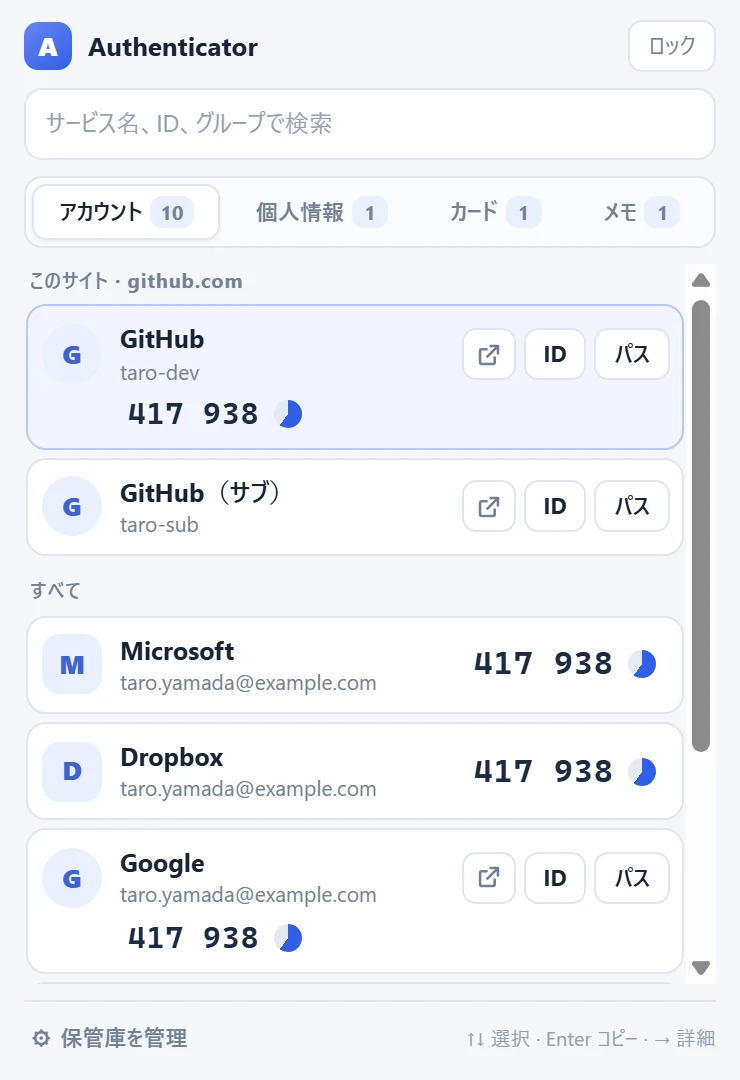
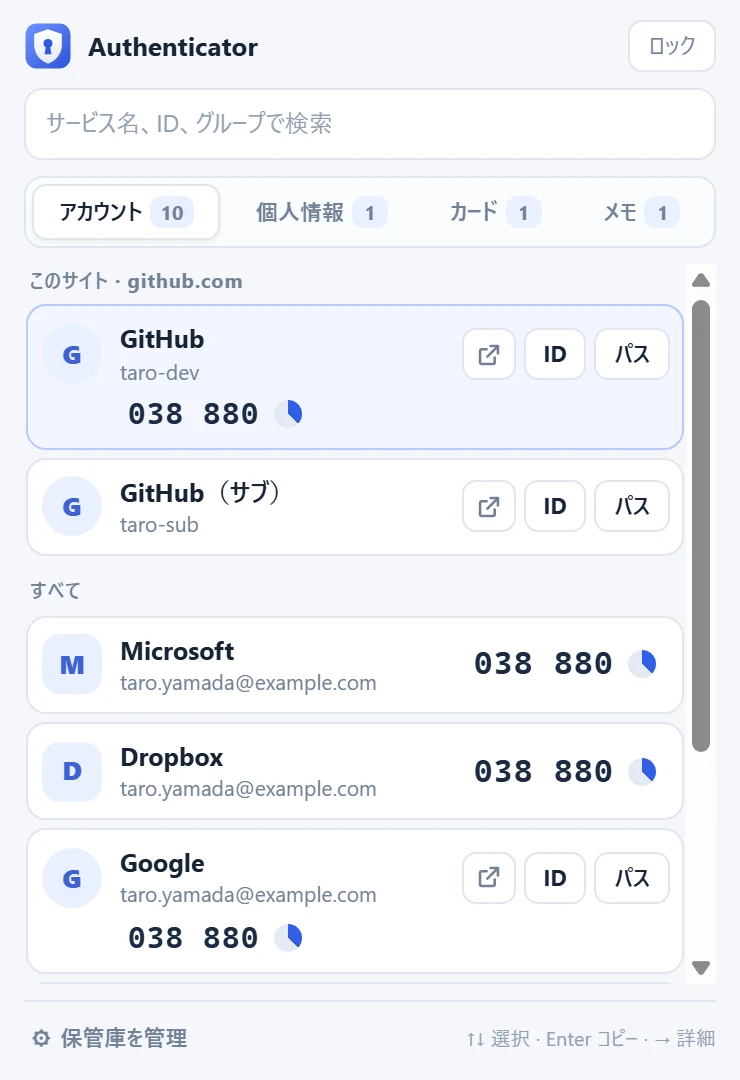
Update Authenticator Autofill guide for v0.1.1
Retake the popup screenshots with the new extension icon (bump their
?v= so the cached images are replaced) and show version 0.1.1.

diff --git a/authenticator-autofill/index.html b/authenticator-autofill/index.html
@@ -31,7 +31,7 @@
   <script async src="https://pagead2.googlesyndication.com/pagead/js/adsbygoogle.js?client=ca-pub-4863572964771965"
     crossorigin="anonymous"></script>
   <script type="application/ld+json">
-  {"@context": "https://schema.org", "@type": "SoftwareApplication", "name": "Authenticator Autofill", "description": "Google 認証システムの2段階認証コード・パスワード・住所・カード・メモを、パソコンの中だけで暗号化して管理する無料の Chrome 拡張機能。今開いているサイトのコードやID・パスワードをすぐコピー。Chrome や Bitwarden から取り込めて、通信はしません。", "url": "https://donnma.com/tool/authenticator-autofill/", "applicationCategory": "SecurityApplication", "operatingSystem": "Chrome", "downloadUrl": "https://github.com/donnma777/authenticator-autofill/releases/latest", "offers": {"@type": "Offer", "price": "0", "priceCurrency": "JPY"}, "author": {"@type": "Person", "name": "どんま", "url": "https://donnma.com/"}, "softwareVersion": "0.1.0", "screenshot": ["https://donnma.com/tool/image/guide-authenticator-list.webp", "https://donnma.com/tool/image/guide-authenticator-detail.webp"]}
+  {"@context": "https://schema.org", "@type": "SoftwareApplication", "name": "Authenticator Autofill", "description": "Google 認証システムの2段階認証コード・パスワード・住所・カード・メモを、パソコンの中だけで暗号化して管理する無料の Chrome 拡張機能。今開いているサイトのコードやID・パスワードをすぐコピー。Chrome や Bitwarden から取り込めて、通信はしません。", "url": "https://donnma.com/tool/authenticator-autofill/", "applicationCategory": "SecurityApplication", "operatingSystem": "Chrome", "downloadUrl": "https://github.com/donnma777/authenticator-autofill/releases/latest", "offers": {"@type": "Offer", "price": "0", "priceCurrency": "JPY"}, "author": {"@type": "Person", "name": "どんま", "url": "https://donnma.com/"}, "softwareVersion": "0.1.1", "screenshot": ["https://donnma.com/tool/image/guide-authenticator-list.webp", "https://donnma.com/tool/image/guide-authenticator-detail.webp"]}
   </script>
   <script type="application/ld+json">
   {"@context": "https://schema.org", "@type": "BreadcrumbList", "itemListElement": [{"@type": "ListItem", "position": 1, "name": "どんまうんど-Tools", "item": "https://donnma.com/tool/"}, {"@type": "ListItem", "position": 2, "name": "Chrome 拡張機能", "item": "https://donnma.com/tool/#extensions"}, {"@type": "ListItem", "position": 3, "name": "Authenticator Autofill", "item": "https://donnma.com/tool/authenticator-autofill/"}]}
@@ -599,10 +599,10 @@
           <a class="g-btn g-btn-primary" href="https://github.com/donnma777/authenticator-autofill/releases/latest" target="_blank" rel="noopener">ダウンロード（GitHub Releases）</a>
           <a class="g-btn g-btn-secondary" href="https://github.com/donnma777/authenticator-autofill" target="_blank" rel="noopener">GitHub</a>
         </div>
-        <p class="g-meta">無料・通信なし・Chrome 102 以降（パソコン）・v0.1.0</p>
+        <p class="g-meta">無料・通信なし・Chrome 102 以降（パソコン）・v0.1.1</p>
         <div class="g-figures">
-          <figure><img src="../image/guide-authenticator-list.webp?v=20261104a" alt="Authenticator Autofill のポップアップ。今開いているサイトの認証コードとログインが上に出ている" width="740" height="1080" loading="lazy"><figcaption>今のサイトの項目が上に。コードは押すとコピー</figcaption></figure>
-          <figure><img src="../image/guide-authenticator-detail.webp?v=20261104a" alt="Authenticator Autofill の詳しい画面。ID・パスワード・サイト・カスタムフィールド・認証コード" width="740" height="1136" loading="lazy"><figcaption>詳しい画面。その場で編集もできます</figcaption></figure>
+          <figure><img src="../image/guide-authenticator-list.webp?v=20261104b" alt="Authenticator Autofill のポップアップ。今開いているサイトの認証コードとログインが上に出ている" width="740" height="1080" loading="lazy"><figcaption>今のサイトの項目が上に。コードは押すとコピー</figcaption></figure>
+          <figure><img src="../image/guide-authenticator-detail.webp?v=20261104b" alt="Authenticator Autofill の詳しい画面。ID・パスワード・サイト・カスタムフィールド・認証コード" width="740" height="1136" loading="lazy"><figcaption>詳しい画面。その場で編集もできます</figcaption></figure>
         </div>
       </header>
 
